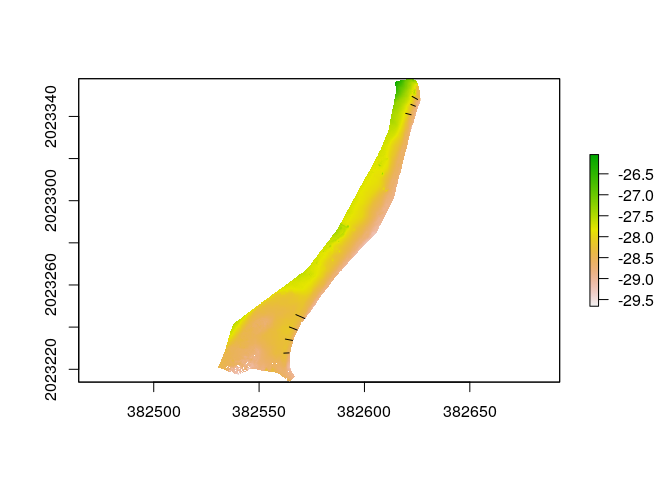
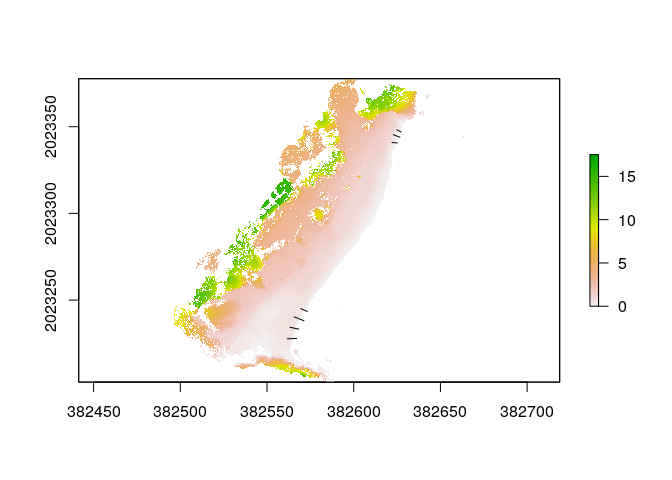
Added unit dimension profiles. Added homogeneous 0-height profile ending using an lm approach

diff --git a/README.md b/README.md
@@ -31,9 +31,13 @@ transprof <- rtrans('data/transect-profiles-short.geojson')
 ## Simple feature collection with 7 features and 1 field
 ## geometry type:  MULTILINESTRING
 ## dimension:      XY
-## bbox:           xmin: 382561.7 ymin: 2023228 xmax: 382625.2 ymax: 2023349
+## bbox:           xmin: 382561.7 ymin: 2023228 xmax: 382627.3 ymax: 2023348
 ## CRS:            32619
-dsm <- raster('data/dsm.tif')
+rawDsm <- raster('data/raw-dsm.tif')
+dsm <- thresholdRaise(
+  rasterDsm = rawDsm, threshold = -28.9,
+  outRasterPath = 'out/cleaned-raised-dsm.tif',
+  overwrite=T)
 plot(dsm)
 plot(as_Spatial(transprof), add=T)
 ```
@@ -58,11 +62,11 @@ ggplot() +
 
 <img src="img/unnamed-chunk-3-2.png" width="100%" />
 
-Profiles
---------
+Profile data
+------------
 
 ``` r
-prof <- profiles(transects = transprof, height = dsm, facetRows = 2, movingAvgK = 10)
+profData <- profiles(transects = transprof, height = dsm, pointsPerPixel= 1, movingAvgK = 5)
 ## rgeos version: 0.5-2, (SVN revision 621)
 ##  GEOS runtime version: 3.6.2-CAPI-1.10.2 
 ##  Linking to sp version: 1.3-1 
@@ -80,26 +84,242 @@ prof <- profiles(transects = transprof, height = dsm, facetRows = 2, movingAvgK 
 ## The following objects are masked from 'package:base':
 ## 
 ##     as.Date, as.Date.numeric
-prof
-## [[1]]
-## # A tibble: 224 x 4
-## # Groups:   transect [7]
-##    transect   dist     h    hma
-##    <fct>     <dbl> <dbl>  <dbl>
-##  1 1        0      1     NA    
-##  2 1        0.0345 0.969 NA    
-##  3 1        0.0690 0.933 NA    
-##  4 1        0.103  0.933 NA    
-##  5 1        0.138  0.874  0.867
-##  6 1        0.172  0.866  0.837
-##  7 1        0.207  0.864  0.807
-##  8 1        0.241  0.786  0.777
-##  9 1        0.276  0.767  0.739
-## 10 1        0.310  0.677  0.703
-## # … with 214 more rows
+## udunits system database from /usr/share/xml/udunits
+profData
+## $dimension
+## # A tibble: 198 x 5
+##    transect      dist         h       hma    distlm
+##    <fct>          [m]       [m]       [m]       [m]
+##  1 1        0.0000000 0.3875008        NA        NA
+##  2 1        0.1017041 0.3699989        NA        NA
+##  3 1        0.2034081 0.3699989 0.3685852 0.2034081
+##  4 1        0.3051122 0.3540001 0.3604179 0.3051122
+##  5 1        0.4068163 0.3614273 0.3480846 0.4068163
+##  6 1        0.5085204 0.3466644 0.3260849 0.5085204
+##  7 1        0.6102244 0.3083324 0.3049992 0.6102244
+##  8 1        0.7119285 0.2600002 0.2758247 0.7119285
+##  9 1        0.8136326 0.2485714 0.2404919 0.8136326
+## 10 1        0.9153367 0.2155552 0.2173252 0.9153367
+## # … with 188 more rows
 ## 
-## [[2]]
-## Warning: Removed 9 rows containing missing values (geom_path).
+## $dimensionless
+## # A tibble: 198 x 3
+##    transect  distlm    hma
+##    <fct>      <dbl>  <dbl>
+##  1 1        NA      NA    
+##  2 1        NA      NA    
+##  3 1         0       1    
+##  4 1         0.0597  0.978
+##  5 1         0.119   0.944
+##  6 1         0.179   0.885
+##  7 1         0.239   0.827
+##  8 1         0.298   0.748
+##  9 1         0.358   0.652
+## 10 1         0.418   0.590
+## # … with 188 more rows
+## 
+## $dimensionlessrawdistance
+## # A tibble: 198 x 3
+##    transect   dist    hma
+##    <fct>     <dbl>  <dbl>
+##  1 1        0      NA    
+##  2 1        0.0556 NA    
+##  3 1        0.111   1    
+##  4 1        0.167   0.978
+##  5 1        0.222   0.944
+##  6 1        0.278   0.885
+##  7 1        0.333   0.827
+##  8 1        0.389   0.748
+##  9 1        0.444   0.652
+## 10 1        0.500   0.590
+## # … with 188 more rows
+## 
+## $concavityindex
+## # A tibble: 7 x 2
+##   transect       ci
+##   <fct>       <dbl>
+## 1 1        -0.0478 
+## 2 2         0.00179
+## 3 3        -0.168  
+## 4 4        -0.140  
+## 5 5        -0.0591 
+## 6 6        -0.142  
+## 7 7        -0.109  
+## 
+## $concavityindexrawdistance
+## # A tibble: 7 x 2
+##   transect      ci
+##   <fct>      <dbl>
+## 1 1         0.0562
+## 2 2         0.147 
+## 3 3        -0.252 
+## 4 4        -0.168 
+## 5 5        -0.216 
+## 6 6        -0.305 
+## 7 7        -0.228 
+## 
+## $slope
+## # A tibble: 7 x 10
+##   transect       dh  ddistlm    slope slopeRad slopeDeg distrawd sloperawd
+##   <fct>         [m]      [m]      [1]    [rad]      [°]      [m]       [1]
+## 1 1        0.36858… 1.704848 -0.2232… -0.2196… -12.582… 1.830673 -0.22258…
+## 2 2        0.54380… 2.054376 -0.2628… -0.2570… -14.729… 2.397880 -0.26266…
+## 3 3        0.32014… 2.133634 -0.1640… -0.1625…  -9.315… 1.806913 -0.15460…
+## 4 4        0.57606… 2.639010 -0.2397… -0.2353… -13.484… 2.485144 -0.23709…
+## 5 5        0.67762… 4.253488 -0.1692… -0.1676…  -9.606… 3.499681 -0.16867…
+## 6 6        0.64976… 4.159920 -0.1708… -0.1691…  -9.692… 3.381480 -0.16724…
+## 7 7        0.60763… 3.563589 -0.1834… -0.1813… -10.393… 3.115295 -0.18101…
+## # … with 2 more variables: sloperawdRad [rad], sloperawdDeg [°]
 ```
 
-<img src="img/unnamed-chunk-4-1.png" width="100%" />
+Profile plots
+-------------
+
+### Unit dimensions
+
+``` r
+#Not comparable scales, neither between x and y nor across panels
+dmngrid <- profData$dimension %>% drop_units %>% ggplot() +
+  aes(x = distlm, y = hma) +
+  geom_line(col = 'red', lwd = 1, na.rm = T) +
+  scale_x_continuous(breaks = pretty_breaks()) +
+  scale_y_continuous(breaks = pretty_breaks()) +
+  expand_limits(y = -0.05) +
+  ylab('Height, moving average (m)') + xlab('Distance, landward origin (m)') +
+  geom_text(
+    data = profData$slope %>% drop_units,
+    aes(x = 0, y = 0, label = paste0('m=', round(slopeDeg,2), '°')),
+    size = 3,
+    hjust = 0,
+    parse = F
+  ) +
+  facet_wrap(~transect, nrow = 2, scales = 'free') +
+  theme_bw() + 
+  theme(text = element_text(size = 12))
+dmngrid
+```
+
+<img src="img/unnamed-chunk-5-1.png" width="100%" />
+
+``` r
+
+#Not comparable scales between x and y
+dmngrid +
+  stat_smooth(
+    aes(x = distlm, y = hma), geom = 'line', color = 'black',
+    alpha = 0.5, formula = y~x, method = 'lm', na.rm = T) +
+  facet_grid(~transect) 
+```
+
+<img src="img/unnamed-chunk-5-2.png" width="100%" />
+
+``` r
+#Equal xy scales, no vertical exaggeration
+dmngrid + facet_wrap(~transect, nrow = 7) + coord_equal() #Not so informative but panels are comparable
+```
+
+<img src="img/unnamed-chunk-6-1.png" width="100%" />
+
+``` r
+
+#Equal scales, vertical exaggeration by 2x
+dmngrid + facet_wrap(~transect, nrow = 7) + coord_equal(ratio = 2)
+```
+
+<img src="img/unnamed-chunk-6-2.png" width="100%" />
+
+``` r
+#Raw distance
+dmngridrawd <- profData$dimension %>% drop_units %>% ggplot() +
+  aes(x = dist, y = hma) +
+  geom_line(col = 'red', lwd = 1, na.rm = T) +
+  scale_x_continuous(breaks = pretty_breaks()) +
+  scale_y_continuous(breaks = pretty_breaks()) +
+  expand_limits(y = -0.05) +
+  ylab('Height, moving average (m)') + xlab('Raw distance, landward origin (m)') +
+  geom_text(
+    data = profData$slope %>% drop_units,
+    aes(x = 0, y = 0, label = paste0('m=', round(sloperawdDeg,2), '°')),
+    size = 3,
+    hjust = 0,
+    parse = F
+  ) +
+  facet_wrap(~transect, nrow = 2, scales = 'free') +
+  theme_bw() + 
+  theme(text = element_text(size = 12))
+dmngridrawd
+```
+
+<img src="img/unnamed-chunk-7-1.png" width="100%" />
+
+``` r
+
+#Not comparable scales between x and y
+dmngridrawd +
+  stat_smooth(
+    aes(x = dist, y = hma), geom = 'line', color = 'black',
+    alpha = 0.5, formula = y~x, method = 'lm', na.rm = T) +
+  facet_grid(~transect) 
+```
+
+<img src="img/unnamed-chunk-7-2.png" width="100%" />
+
+``` r
+#Equal xy scales, no vertical exaggeration
+dmngridrawd + facet_wrap(~transect, nrow = 7) + coord_equal() #Not so informative but panels are comparable
+```
+
+<img src="img/unnamed-chunk-8-1.png" width="100%" />
+
+``` r
+
+#Equal scales, vertical exaggeration by 2x
+dmngridrawd + facet_wrap(~transect, nrow = 7) + coord_equal(ratio = 2)
+```
+
+<img src="img/unnamed-chunk-8-2.png" width="100%" />
+
+### Dimensionless, profile concavity indices
+
+``` r
+dmnlsgrid1 <- profData$dimensionless %>% na.omit %>% ggplot() +
+  aes(x = distlm, y = hma) +
+  geom_line(col = 'red', lwd = 1) +
+  scale_x_continuous(breaks = pretty_breaks(), limits = c(0,1)) +
+  scale_y_continuous(breaks = pretty_breaks(), limits = c(0,1)) +
+  geom_text(
+    data = profData$concavityindex, aes(x = 0.1, y = 0.1, label = paste0('C[a]==', round(ci,2))),
+    size = 3,
+    hjust = 0,
+    parse = T
+  ) +
+  coord_equal() +
+  facet_wrap(~transect, nrow = 2) +
+  theme_bw() + 
+  theme(text = element_text(size = 12))
+dmnlsgrid1
+```
+
+<img src="img/unnamed-chunk-9-1.png" width="100%" />
+
+``` r
+
+dmnlsgridrawd1 <- profData$dimensionlessrawdistance %>% na.omit %>% ggplot() +
+  aes(x = dist, y = hma) +
+  geom_line(col = 'red', lwd = 1) +
+  scale_x_continuous(breaks = pretty_breaks(), limits = c(0,1)) +
+  scale_y_continuous(breaks = pretty_breaks(), limits = c(0,1)) +
+  geom_text(
+    data = profData$concavityindexrawdistance, aes(x = 0.1, y = 0.1, label = paste0('C[a]==', round(ci,2))),
+    size = 3,
+    hjust = 0,
+    parse = T
+  ) +
+  coord_equal() +
+  facet_wrap(~transect, nrow = 2) +
+  theme_bw() + 
+  theme(text = element_text(size = 12))
+dmnlsgridrawd1
+```
+
+<img src="img/unnamed-chunk-9-2.png" width="100%" />
